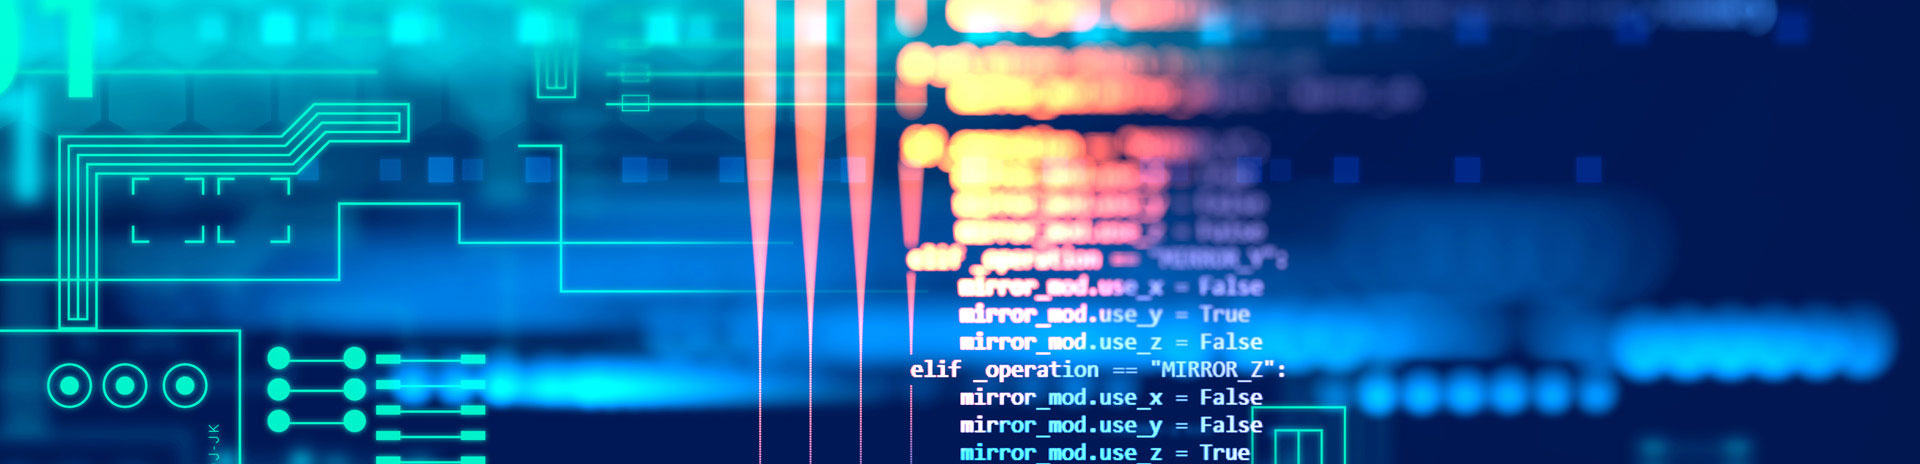
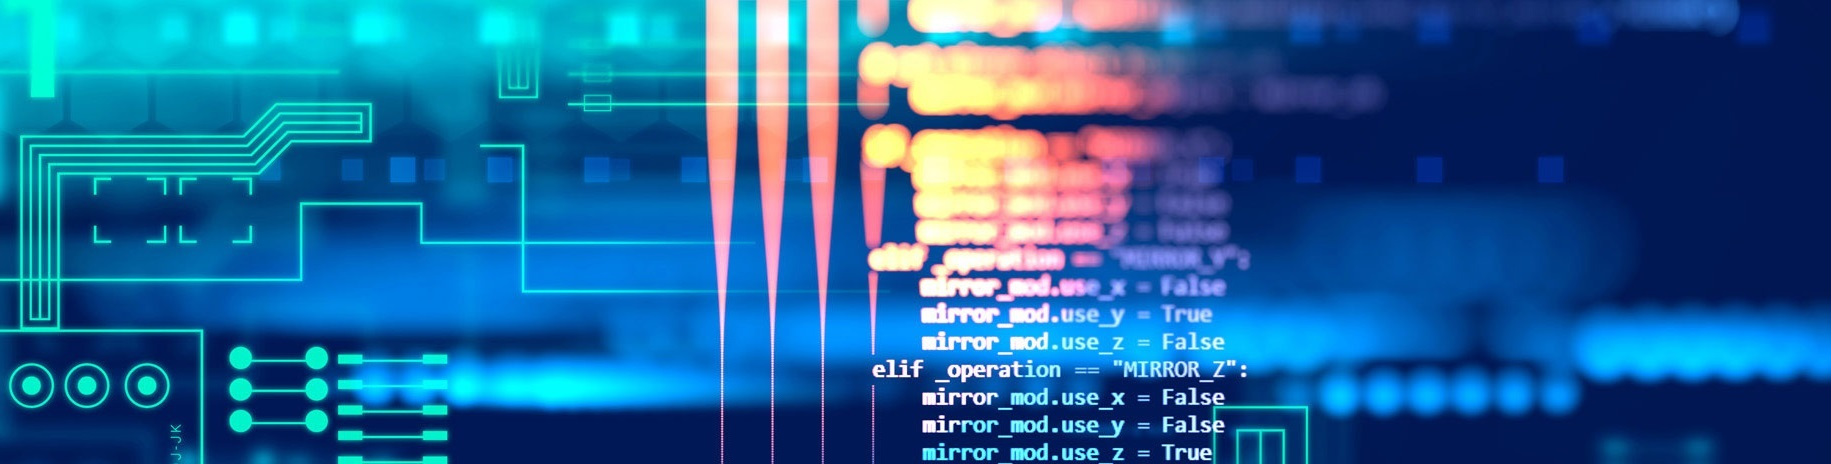
arreglo de perfil y breakpoints

diff --git a/index.html b/index.html
@@ -56,25 +56,21 @@
   </nav>
 
     <!--Primer card perfil-->
-    <div class="card container-fluid" style="border: red 2px solid;">
-        <div class="banner">
-            <img src="/images/lenguaje-programacion.jpg" class="card-img-top"  alt="imagen ilustrativa con texto en codigo">
+    <div class="card ">
+        <div class="banner container-fluid">
+            <img src="/images/lenguaje-programacion.jpg" class="card-img-top" id="banner"  alt= "imagen ilustrativa con texto en codigo">
         </div>
 
-        <section id="perfil" class="align-items-center container-fluid" style="border: red 2px solid;">
-            <div class="container-fluid ">
-                <div class="container-fluid" style="width: 15em;">
-                    <a class="container-fluid" href="#">
-                        <img src="/images/perfil2.jpeg" class= "img-fluid rounded-circle " alt="foto perfil persona">
-                    </a>
-                </div>
-            </div>
-
-                <div class="col-md-6" style="border: red 2px solid;">
+        <section id="perfil">
+                <div class="container-fluid" id="fotoPerfil">
+                    <img src="/images/perfil2.jpeg" class= "img-fluid rounded-circle " alt="foto perfil persona">
+                </div> 
+                
+                <div class="container-fluid" id="textoPerfil">
                     <h3 class="card-title">Lorena Zamarian</h3>
-                    <p class="card-text">Full Stack Developer Jr</p>
+                    <p class="card-text">Programadora Web Full Stack Jr.</p> 
                     <p class="card-text">Profesora de Inglés</p>
-                    <p class="card-text">Mendoza, Argentina</p>
+                    <p class="card-text">Mendoza, Argentina</p> 
                 </div>
         </section>
             
@@ -84,7 +80,8 @@
     <!--segunda card Acerca de-->
     <div class="card">
         <h3 class="titulos"> Acerca de </h3>
-        <p>Profesora de Inglés, inicializandome en el mundo de la programación con conocimientos en html, css, javascript y python, entre otras</p>
+        <p>Profesora de Inglés, inicializandome en el mundo de la programación con conocimientos en html, css, javascript y python, entre otras.</p>
+        <p>Me considero una persona responsable, ordenada, proactiva, autodidacta, sociable y con capacidad para el trabajo en equipo, la comunicación y la resolución de conflictos.</p>
     </div>
 
     <!--Tercer card Educacion-->
@@ -168,7 +165,7 @@
 
     </div>
      <!-- Modal log in -->
-    s<div class="modal fade" id="logInModal" tabindex="-1" aria-labelledby="exampleModalLabel" aria-hidden="true">
+    <div class="modal fade" id="logInModal" tabindex="-1" aria-labelledby="exampleModalLabel" aria-hidden="true">
     <div class="modal-dialog">
         <div class="modal-content">
             <div class="modal-header">

diff --git a/style.css b/style.css
@@ -1,11 +1,4 @@
-/*
-#perfil{
-    margin-top: -10em;
-    padding-left: 1em;
-    text-align: center;
- }
-*/
-
+/*estilos navbar*/
 nav{
     background-color: #000000;
     color: #ffffff;
@@ -21,13 +14,44 @@ nav{
     font-size: x-large;
 }
 
-.edu{
-    display: flex;
-    align-items: center;
-    flex-wrap: nowrap;
-    height: auto;
+
+/*Estilos perfil*/
+#banner{
+    width: 103%; 
+    margin-left: -2.1%;
 }
 
+#perfil{
+    margin-top: -10em;
+    width: 50%;
+    margin-left: 0em;
+    display: flex;
+    flex-direction: column;
+    white-space: nowrap;
+    overflow: hidden;
+    
+}
+ 
+#fotoPerfil{
+    max-width: 50%;
+}
+
+#textoPerfil{
+    text-align: center;
+    padding-bottom: 5%;
+}
+
+#textoPerfil h3{
+    font-size: 3vw;
+    height: 5vh;
+}
+
+#textoPerfil p{
+    font-size: 2vw;
+    height:2vh;
+}
+
+/*Estilo cards*/
 .card{
     padding-left: 1em;
     margin: 0.5em;
@@ -42,13 +66,40 @@ nav{
     font-weight: bold;
 }
 
+/*Estilos educacion*/
+.edu{
+    display: flex;
+    align-items: center;
+    flex-wrap: nowrap;
+    height: auto;
+}
+
+
 .barras{
     padding: 2em;
 }
 
 /*Breakpoints*/
 
+@media only screen and (max-width: 800px){
+    
+    #banner{
+        width: 105%; 
+        margin-left: -3.5%;
+    }
+
+    #perfil{
+        margin-top: -6em;
+    }
+}
+
 @media only screen and (max-width: 600px){
+
+    #banner{
+        width: 107%; 
+        margin-left: -5%;
+    }
+
     #name{
         font-size: large;
     }
@@ -57,9 +108,24 @@ nav{
         font-size: large;       
     }
 
+    #fotoPerfil{
+        max-width: 80%;
+    }
+
+    #textoPerfil h3{
+        font-size: 3vw;
+        height: 3vh;
+    }
+
 }
 
 @media only screen and (max-width: 490px){
+
+    #banner{
+        width: 108%; 
+        margin-left: -5.9%;
+    }
+
     #name{
         font-size: small;
     }
@@ -68,6 +134,29 @@ nav{
         font-size: small;
     }
 
+    #perfil{
+        margin-top: -5em;
+    }
+     
+    #fotoPerfil{
+        max-width: 80%;
+    }
+    
+    #textoPerfil{
+        text-align: center;
+        padding-bottom: 7%;
+    }
+    
+    #textoPerfil h3{
+        font-size: 4vw;
+        height: 3vh;
+        
+    }
+    
+    #textoPerfil p{
+        font-size: 3vw;
+        height:1vh;
+    }
 }
 
 
